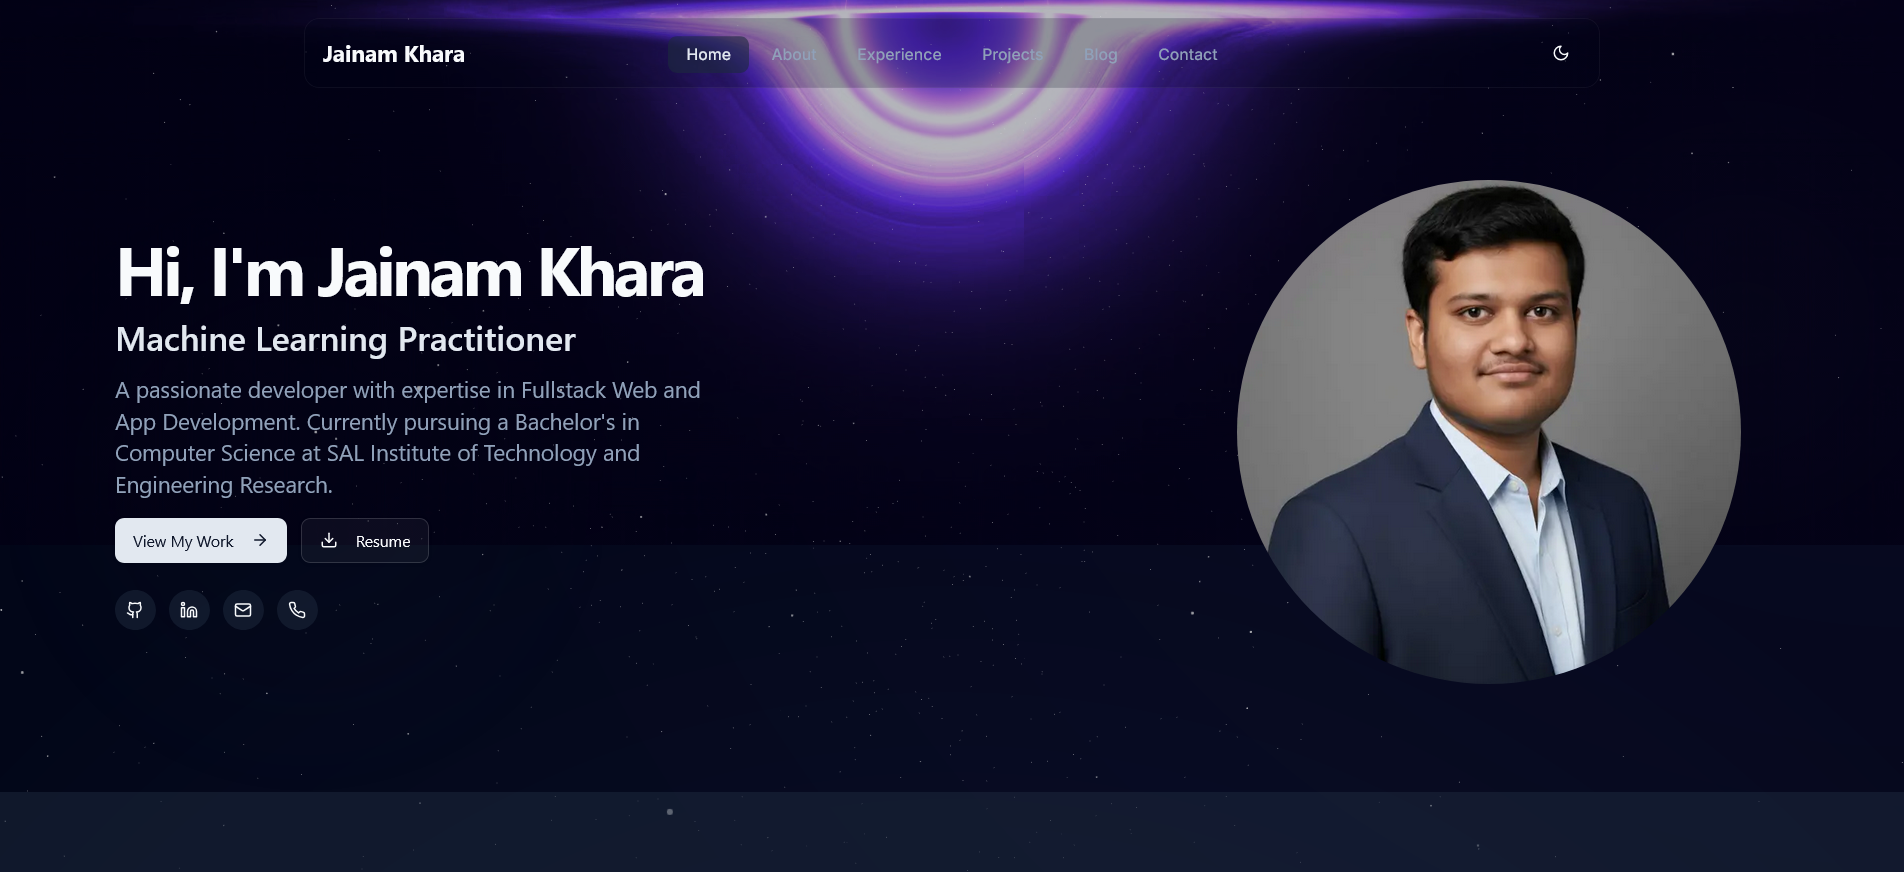
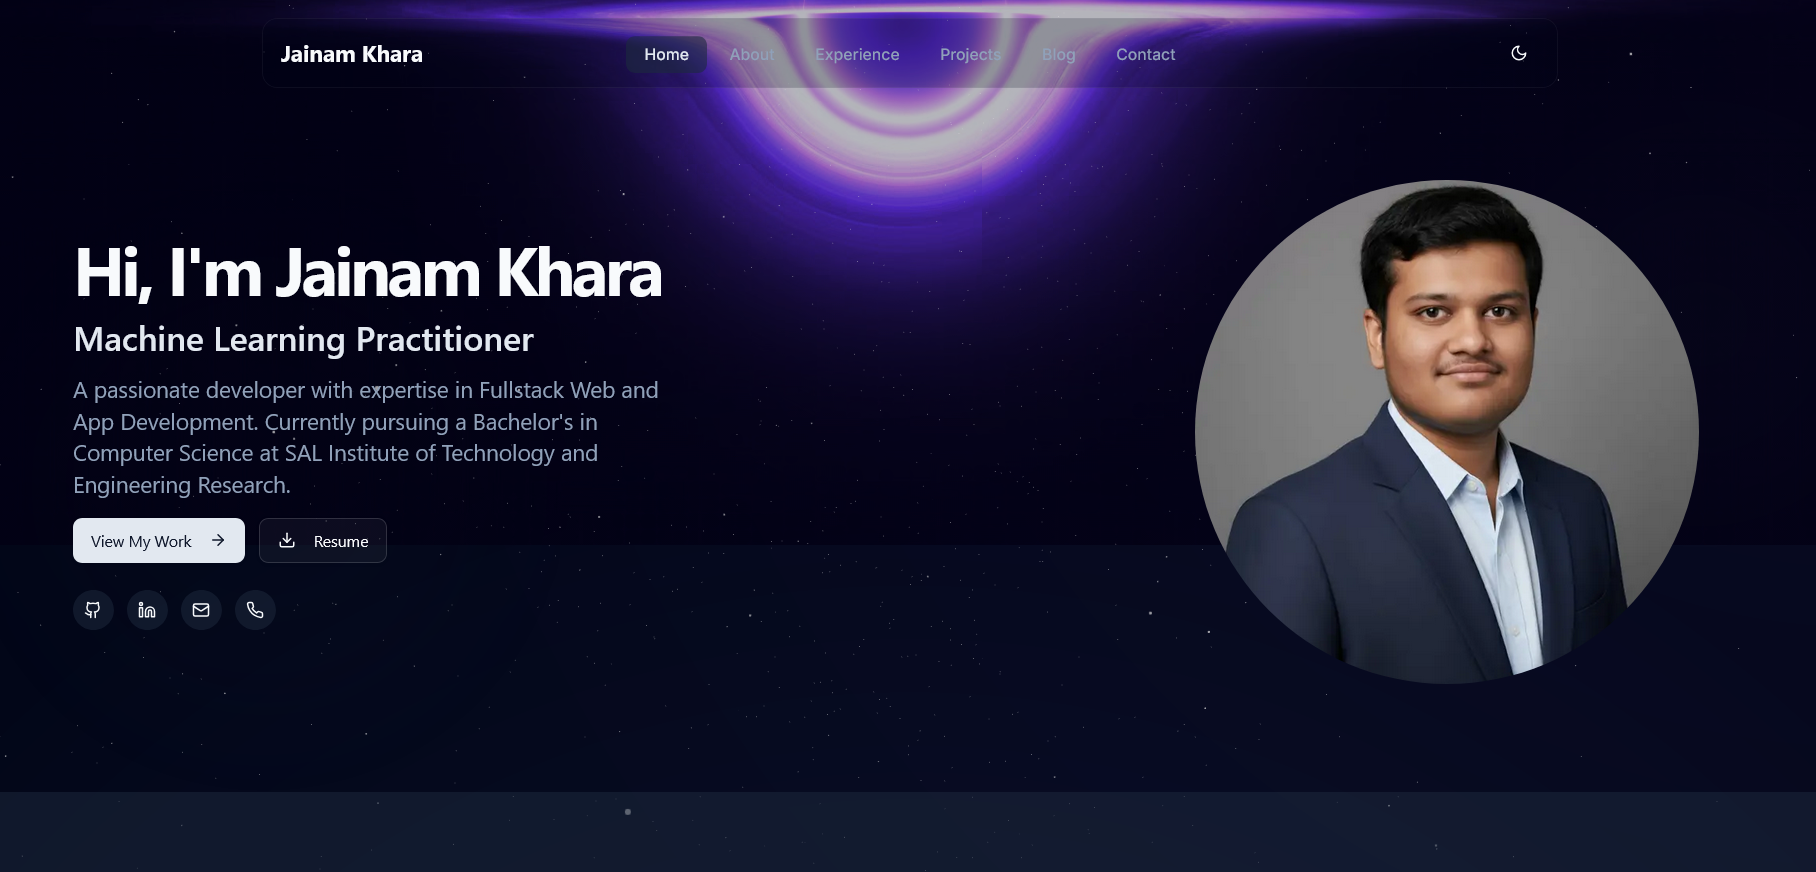
Fixed Typing mistakes

diff --git a/app/(routes)/blog/page.tsx b/app/(routes)/blog/page.tsx
@@ -11,7 +11,7 @@ import { useState } from "react";
 export default function BlogPage() {
   const [email, setEmail] = useState("");
   const [submitted, setSubmitted] = useState(false);
-  
+
   const handleSubmit = (e: React.FormEvent) => {
     e.preventDefault();
     console.log("Email submitted:", email);
@@ -31,14 +31,15 @@ export default function BlogPage() {
           <div className="inline-block p-2 bg-primary/10 rounded-full mb-4">
             <CalendarDays className="h-10 w-10 text-primary" />
           </div>
-          
+
           <h1 className="text-3xl font-bold tracking-tighter sm:text-5xl md:text-6xl">
             Blog Coming Soon
           </h1>
-          
+
           <p className="max-w-[700px] text-muted-foreground md:text-xl/relaxed">
-            I&apos;m working on some interesting articles about web development, blockchain technology, 
-            and machine learning. Stay tuned for insightful content!
+            I&apos;m working on some interesting articles about web development,
+            app development, and machine learning. Stay tuned for insightful
+            content!
           </p>
         </motion.div>
 
@@ -56,16 +57,16 @@ export default function BlogPage() {
                     <div className="h-48 rounded-md bg-muted/70 animate-pulse flex items-center justify-center">
                       <Clock className="h-8 w-8 text-muted-foreground/40" />
                     </div>
-                    
+
                     <div className="h-6 w-2/3 rounded-md bg-muted/70 animate-pulse"></div>
-                    
+
                     <div className="space-y-2">
                       <div className="h-4 rounded-md bg-muted/70 animate-pulse"></div>
                       <div className="h-4 rounded-md bg-muted/70 animate-pulse"></div>
                       <div className="h-4 w-4/5 rounded-md bg-muted/70 animate-pulse"></div>
                     </div>
                   </div>
-                  
+
                   <div className="mt-6 flex items-center justify-between">
                     <div className="flex items-center gap-2">
                       <div className="h-8 w-8 rounded-full bg-muted/70 animate-pulse"></div>
@@ -94,10 +95,11 @@ export default function BlogPage() {
               <p className="text-sm text-muted-foreground mb-4">
                 Subscribe to get notified when new blog posts are available.
               </p>
-              
+
               {submitted ? (
                 <div className="p-4 bg-primary/10 rounded-lg text-sm">
-                  Thanks for subscribing! I&apos;ll notify you when new content is available.
+                  Thanks for subscribing! I&apos;ll notify you when new content
+                  is available.
                 </div>
               ) : (
                 <form onSubmit={handleSubmit}>
@@ -110,9 +112,7 @@ export default function BlogPage() {
                       required
                       className="flex-1"
                     />
-                    <Button type="submit">
-                      Notify Me
-                    </Button>
+                    <Button type="submit">Notify Me</Button>
                   </div>
                 </form>
               )}
@@ -121,15 +121,28 @@ export default function BlogPage() {
         </motion.div>
 
         <Separator className="my-16" />
-        
+
         <div className="text-center text-muted-foreground">
           <p>Check back soon for articles on:</p>
           <div className="flex flex-wrap gap-2 justify-center mt-4">
-            <span className="px-3 py-1 rounded-full bg-primary/10 text-primary text-xs">Web Development</span>
-            <span className="px-3 py-1 rounded-full bg-primary/10 text-primary text-xs">Blockchain</span>
-            <span className="px-3 py-1 rounded-full bg-primary/10 text-primary text-xs">Next.js</span>
-            <span className="px-3 py-1 rounded-full bg-primary/10 text-primary text-xs">React</span>
-            <span className="px-3 py-1 rounded-full bg-primary/10 text-primary text-xs">Machine Learning</span>
+            <span className="px-3 py-1 rounded-full bg-primary/10 text-primary text-xs">
+              Web Development
+            </span>
+            <span className="px-3 py-1 rounded-full bg-primary/10 text-primary text-xs">
+              App Development
+            </span>
+            <span className="px-3 py-1 rounded-full bg-primary/10 text-primary text-xs">
+              Next.js
+            </span>
+            <span className="px-3 py-1 rounded-full bg-primary/10 text-primary text-xs">
+              React
+            </span>
+            <span className="px-3 py-1 rounded-full bg-primary/10 text-primary text-xs">
+              Android
+            </span>
+            <span className="px-3 py-1 rounded-full bg-primary/10 text-primary text-xs">
+              Machine Learning
+            </span>
           </div>
         </div>
       </div>

diff --git a/app/layout.tsx b/app/layout.tsx
@@ -4,18 +4,18 @@ import "./globals.css";
 
 export const metadata: Metadata = {
   title: "Jainam Khara | Full Stack Developer",
-  description: "Full Stack Developer & Machine Learning Enthusiast with expertise in Next.js, React, and blockchain technologies.",
+  description: "Full Stack Developer & Machine Learning Enthusiast with expertise in Next.js, React and Android.",
   
   
   // Basic metadata
   applicationName: "Jainam Khara Portfolio",
   authors: [{ name: "Jainam Khara" }],
-  keywords: ["Full Stack Developer", "Web3", "Blockchain", "Next.js", "React", "Machine Learning"],
+  keywords: ["Full Stack Developer", "Next.js", "React", "Machine Learning", "Android"],
   
   openGraph: {
     type: "website",
     title: "Jainam Khara | Full Stack Developer",
-    description: "Full Stack Developer & Blockchain and Machine Learning Enthusiast with expertise in Next.js, React, and blockchain technologies.",
+    description: "Full Stack Developer and Machine Learning Enthusiast with expertise in Next.js, React, Android.",
     siteName: "Jainam Khara",
     locale: "en_US",
     images: [

diff --git a/components/skill-icon.tsx b/components/skill-icon.tsx
@@ -2,7 +2,6 @@ import {
     Code, FileCode, Braces, FileJson, Type, Coffee, Database, Terminal,
     Globe, Layout, Server, PanelLeft, Palette, Tablet,
     BadgePlus, BarChart, Brain, LineChart, Sigma,
-    Coins, Boxes, Link, LockKeyhole, Wallet, FolderArchive,
     Cloud, CloudCog, Container, GitBranch, Layers, CircleDashed, UploadCloud,
     Cpu, Network, Bot, Share2, Settings, Zap, ShieldCheck,
     LucideIcon, LucideProps 
@@ -38,14 +37,6 @@ import {
       'brain': Brain,
       'line-chart': LineChart,
       'sigma': Sigma,
-      
-      // Blockchain
-      'coins': Coins,
-      'boxes': Boxes,
-      'link': Link,
-      'lock-keyhole': LockKeyhole,
-      'wallet': Wallet,
-      'folder-archive': FolderArchive,
       
       // Cloud/DevOps
       'cloud': Cloud,

diff --git a/components/layout/footer.tsx b/components/layout/footer.tsx
@@ -38,8 +38,8 @@ export function Footer() {
           <div className="space-y-4">
             <h3 className="text-lg font-bold">Jainam Khara</h3>
             <p className="text-sm text-muted-foreground max-w-xs">
-              Full Stack Developer & Machine Learning Enthusiast based in Boston,
-              specialized in creating modern web applications and blockchain solutions.
+              Full Stack Developer & Machine Learning Enthusiast based in Ahmedabad-Gujarat-India,
+              specialized in creating modern websites and applications.
             </p>
           </div>
           
